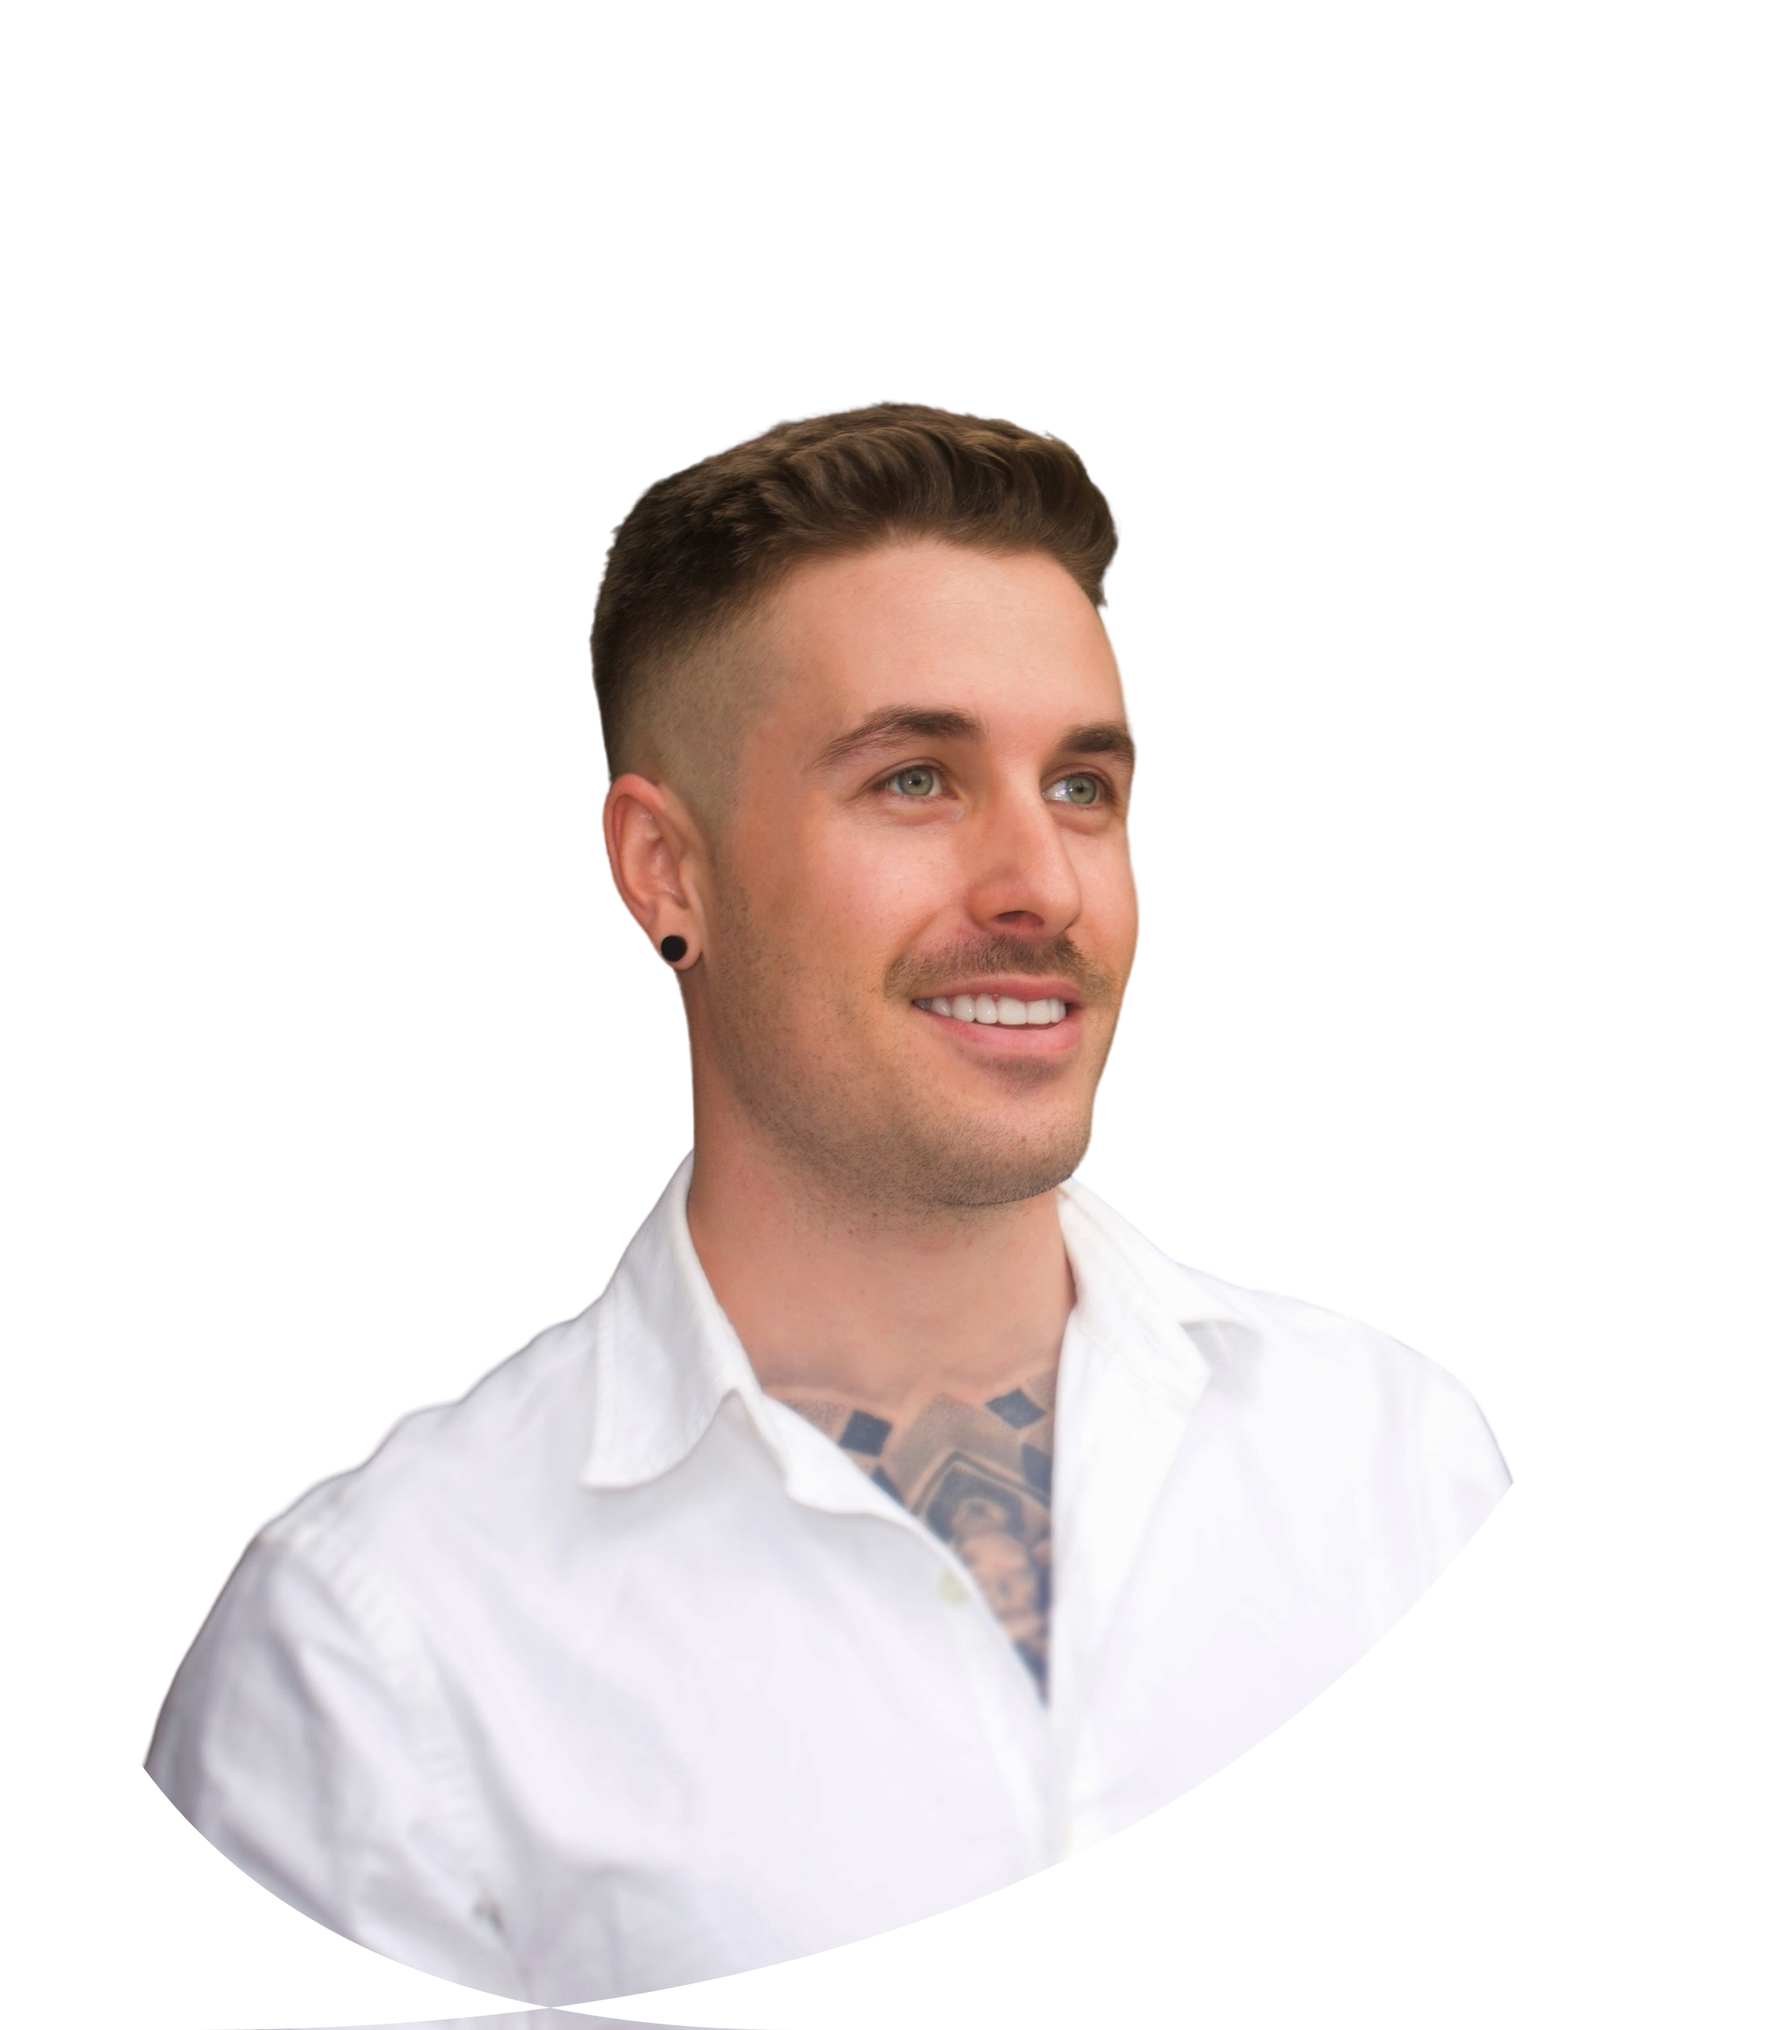
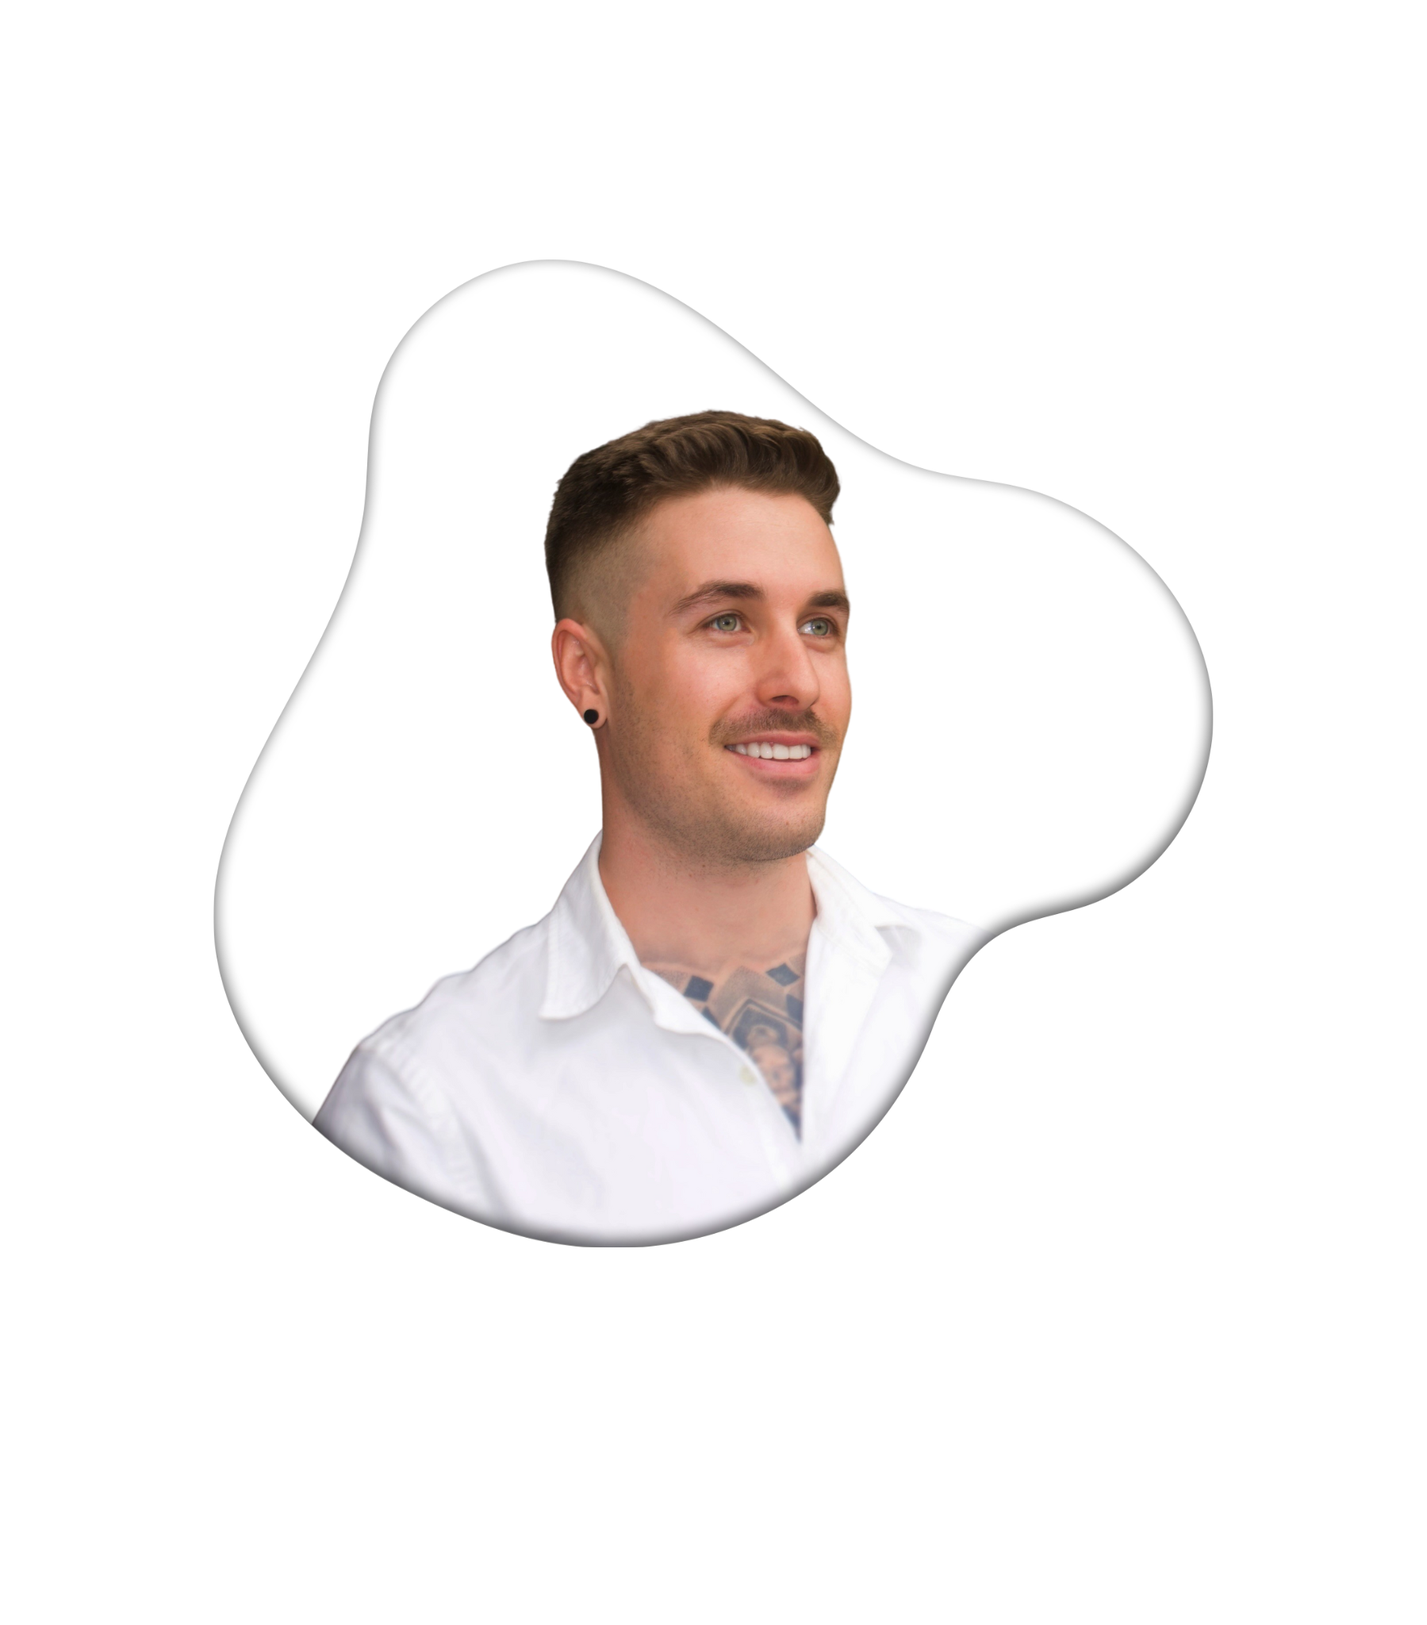
fixed up some responsiveness issues and dev photo

diff --git a/components/TechStack.jsx b/components/TechStack.jsx
@@ -1,37 +1,37 @@
-// TechStack.jsx
-import React from 'react';
-import { FaReact, FaNodeJs, FaPython, FaHtml5, FaCss3, FaJs, FaGitAlt, FaDatabase } from 'react-icons/fa';
-import { SiMongodb, SiExpress, SiFlask } from 'react-icons/si';
-import './TechStack.css'; // Import the CSS file
+// // TechStack.jsx
+// import React from 'react';
+// import { FaReact, FaNodeJs, FaPython, FaHtml5, FaCss3, FaJs, FaGitAlt, FaDatabase } from 'react-icons/fa';
+// import { SiMongodb, SiExpress, SiFlask } from 'react-icons/si';
+// import './TechStack.css'; // Import the CSS file
 
-const TechStack = () => {
-    const techStackIcons = [
-        { Icon: SiMongodb, color: "#4DB33D" },
-        { Icon: SiExpress, color: "#000000" },
-        { Icon: FaNodeJs, color: "#3C873A" },
-        { Icon: FaHtml5, color: "#E34F26" },
-        { Icon: FaCss3, color: "#1572B6" },
-        { Icon: FaJs, color: "#F7DF1E" },
-        { Icon: FaPython, color: "#3776AB" },
-        { Icon: SiFlask, color: "#000000" },
-        { Icon: FaDatabase, color: "#4479A1" }, // Representing SQL
-        { Icon: FaGitAlt, color: "#F05032" },
-        { Icon: FaReact, color: "#61DAFB" },
-        // Add more icons as needed
-    ];
+// const TechStack = () => {
+//     const techStackIcons = [
+//         { Icon: SiMongodb, color: "#4DB33D" },
+//         { Icon: SiExpress, color: "#000000" },
+//         { Icon: FaNodeJs, color: "#3C873A" },
+//         { Icon: FaHtml5, color: "#E34F26" },
+//         { Icon: FaCss3, color: "#1572B6" },
+//         { Icon: FaJs, color: "#F7DF1E" },
+//         { Icon: FaPython, color: "#3776AB" },
+//         { Icon: SiFlask, color: "#000000" },
+//         { Icon: FaDatabase, color: "#4479A1" }, // Representing SQL
+//         { Icon: FaGitAlt, color: "#F05032" },
+//         { Icon: FaReact, color: "#61DAFB" },
+//         // Add more icons as needed
+//     ];
 
-    return (
-        <div className="flex justify-center gap-4">
-            {techStackIcons.map((tech, index) => {
-                const { Icon, color } = tech;
-                return (
-                    <div key={index} className={`icon-container icon-${index}`}>
-                        <Icon size={40} color={color} />
-                    </div>
-                );
-            })}
-        </div>
-    );
-};
+//     return (
+//         <div className="flex justify-center gap-4">
+//             {techStackIcons.map((tech, index) => {
+//                 const { Icon, color } = tech;
+//                 return (
+//                     <div key={index} className={`icon-container icon-${index}`}>
+//                         <Icon size={40} color={color} />
+//                     </div>
+//                 );
+//             })}
+//         </div>
+//     );
+// };
 
-export default TechStack;
+// export default TechStack;

diff --git a/components/About.jsx b/components/About.jsx
@@ -39,18 +39,18 @@ const qualificationData = [
     title: "education",
     data: [
       {
-        university: "Example University",
-        qualification: "Bachelor of Science",
-        years: "2015 - 2018",
+        university: "Faith Lutheran College Redlands",
+        qualification: "High School",
+        years: "2003 - 2008",
       },
       {
-        university: "Another University",
-        qualification: "Master of Arts",
-        years: "2019 - 2021",
+        university: "Tafe Queensland",
+        qualification: "Certificate II in Electrotechnology",
+        years: "2009",
       },
       {
-        university: "Yet Another University",
-        qualification: "Ph.D in Computer Science",
+        university: "Coder Academy Australia",
+        qualification: "Higher Education Diploma of Information Technology",
         years: "2021 - 2025",
       },
     ],
@@ -59,19 +59,19 @@ const qualificationData = [
     title: "experience",
     data: [
       {
-        company: "ABC Inc.",
-        role: "Software Engineer",
-        years: "2018 - 2020",
+        company: "Terrex Seismic",
+        role: "Seismic Surveyor",
+        years: "2011 - 2016",
       },
       {
-        company: "XYZ Corporation",
-        role: "Senior Developer",
-        years: "2020 - 2022",
+        company: "Delta Group",
+        role: "Civil Construction",
+        years: "2017 - 2020",
       },
       {
-        company: "Tech Innovators",
-        role: "Lead Developer",
-        years: "2022 - Present",
+        company: "Raine & Horne",
+        role: "Sales Consultant",
+        years: "2022 - 2024",
       },
     ],
   },
@@ -175,7 +175,7 @@ const About = () => {
                       specialising in full-stack web development. My journey
                       includes diverse experiences, from mining to real estate.
                       Thrilled by coding challenges, I'm passionate about
-                      crafting innovative digital solutions. Proud parent of
+                      crafting innovative digital solutions. Proud father of
                       Charlotte Grace, embracing the adventure of family life
                       with partner Skye.
                     </p>
@@ -205,7 +205,7 @@ const About = () => {
                 <TabsContent value="qualifications">
                   <div>
                     <h3 className="h3 mb-8 text-center xl:text-left">
-                      My Awesome Journey
+                      My Diverse Journey
                     </h3>
                     {/* experience & education wrapper */}
                     <div className="grid md:grid-cols-2 gap-y-8">

diff --git a/components/Hero.jsx b/components/Hero.jsx
@@ -20,11 +20,7 @@ const Hero = () => {
             <h1 className="h1 mb-4">Hello, my name is Samuel Gifford</h1>
             <p className="subtitle max-w-[490px] mx-auto xl:mx-0">
               A tech enthusiast and agile problem solver, I'm a dedicated
-              software developer skilled in both front-end and back-end
-              technologies. With a passion for innovation, I bring a creative
-              and collaborative approach to every project. Committed to
-              continual learning, I thrive in the dynamic and evolving realm of
-              software development.
+              
             </p>
             {/* buttons */}
             <div className="flex flex-col gap-y-3 md:flex-row gap-x-3 mx-auto xl:mx-0 mb-12">

diff --git a/components/Work.jsx b/components/Work.jsx
@@ -62,7 +62,8 @@ const Work = () => {
         <div className="max-w-[400px] mx-auto xl:mx-0 text-center xl:text-left mb-12 xl:h-[400px] flex flex-col justify-center items-center xl:items-start">
           <h2 className="section-title mb-4">Latest Projects</h2>
           <p className="subtitle mb-8">
-            Lorem, ipsum dolor sit amet consectetur adipisicing elit.
+            Here are some of the projects I've worked on. You can view more on my
+            GitHub.
           </p>
           <Link href="/projects">
             <Button>All projects</Button>

diff --git a/components/Cta.jsx b/components/Cta.jsx
@@ -7,7 +7,7 @@ const Cta = () => {
       <div className='container mx-auto'>
         <div className='flex flex-col items-center'>
           <h2 className='h2 max-w-xl text-center mb-8'>
-            Let's work together!
+            Let's Connect!
           </h2>
           <Link href='/contact'>
             <Button>Contact me</Button>

diff --git a/app/page.jsx b/app/page.jsx
@@ -10,7 +10,7 @@ export default function Home() {
   return (
     <main>
       <Hero />
-      <TechStack />
+      {/* <TechStack /> */}
       <About />
       <Work />
       {/* <Reviews /> */}
